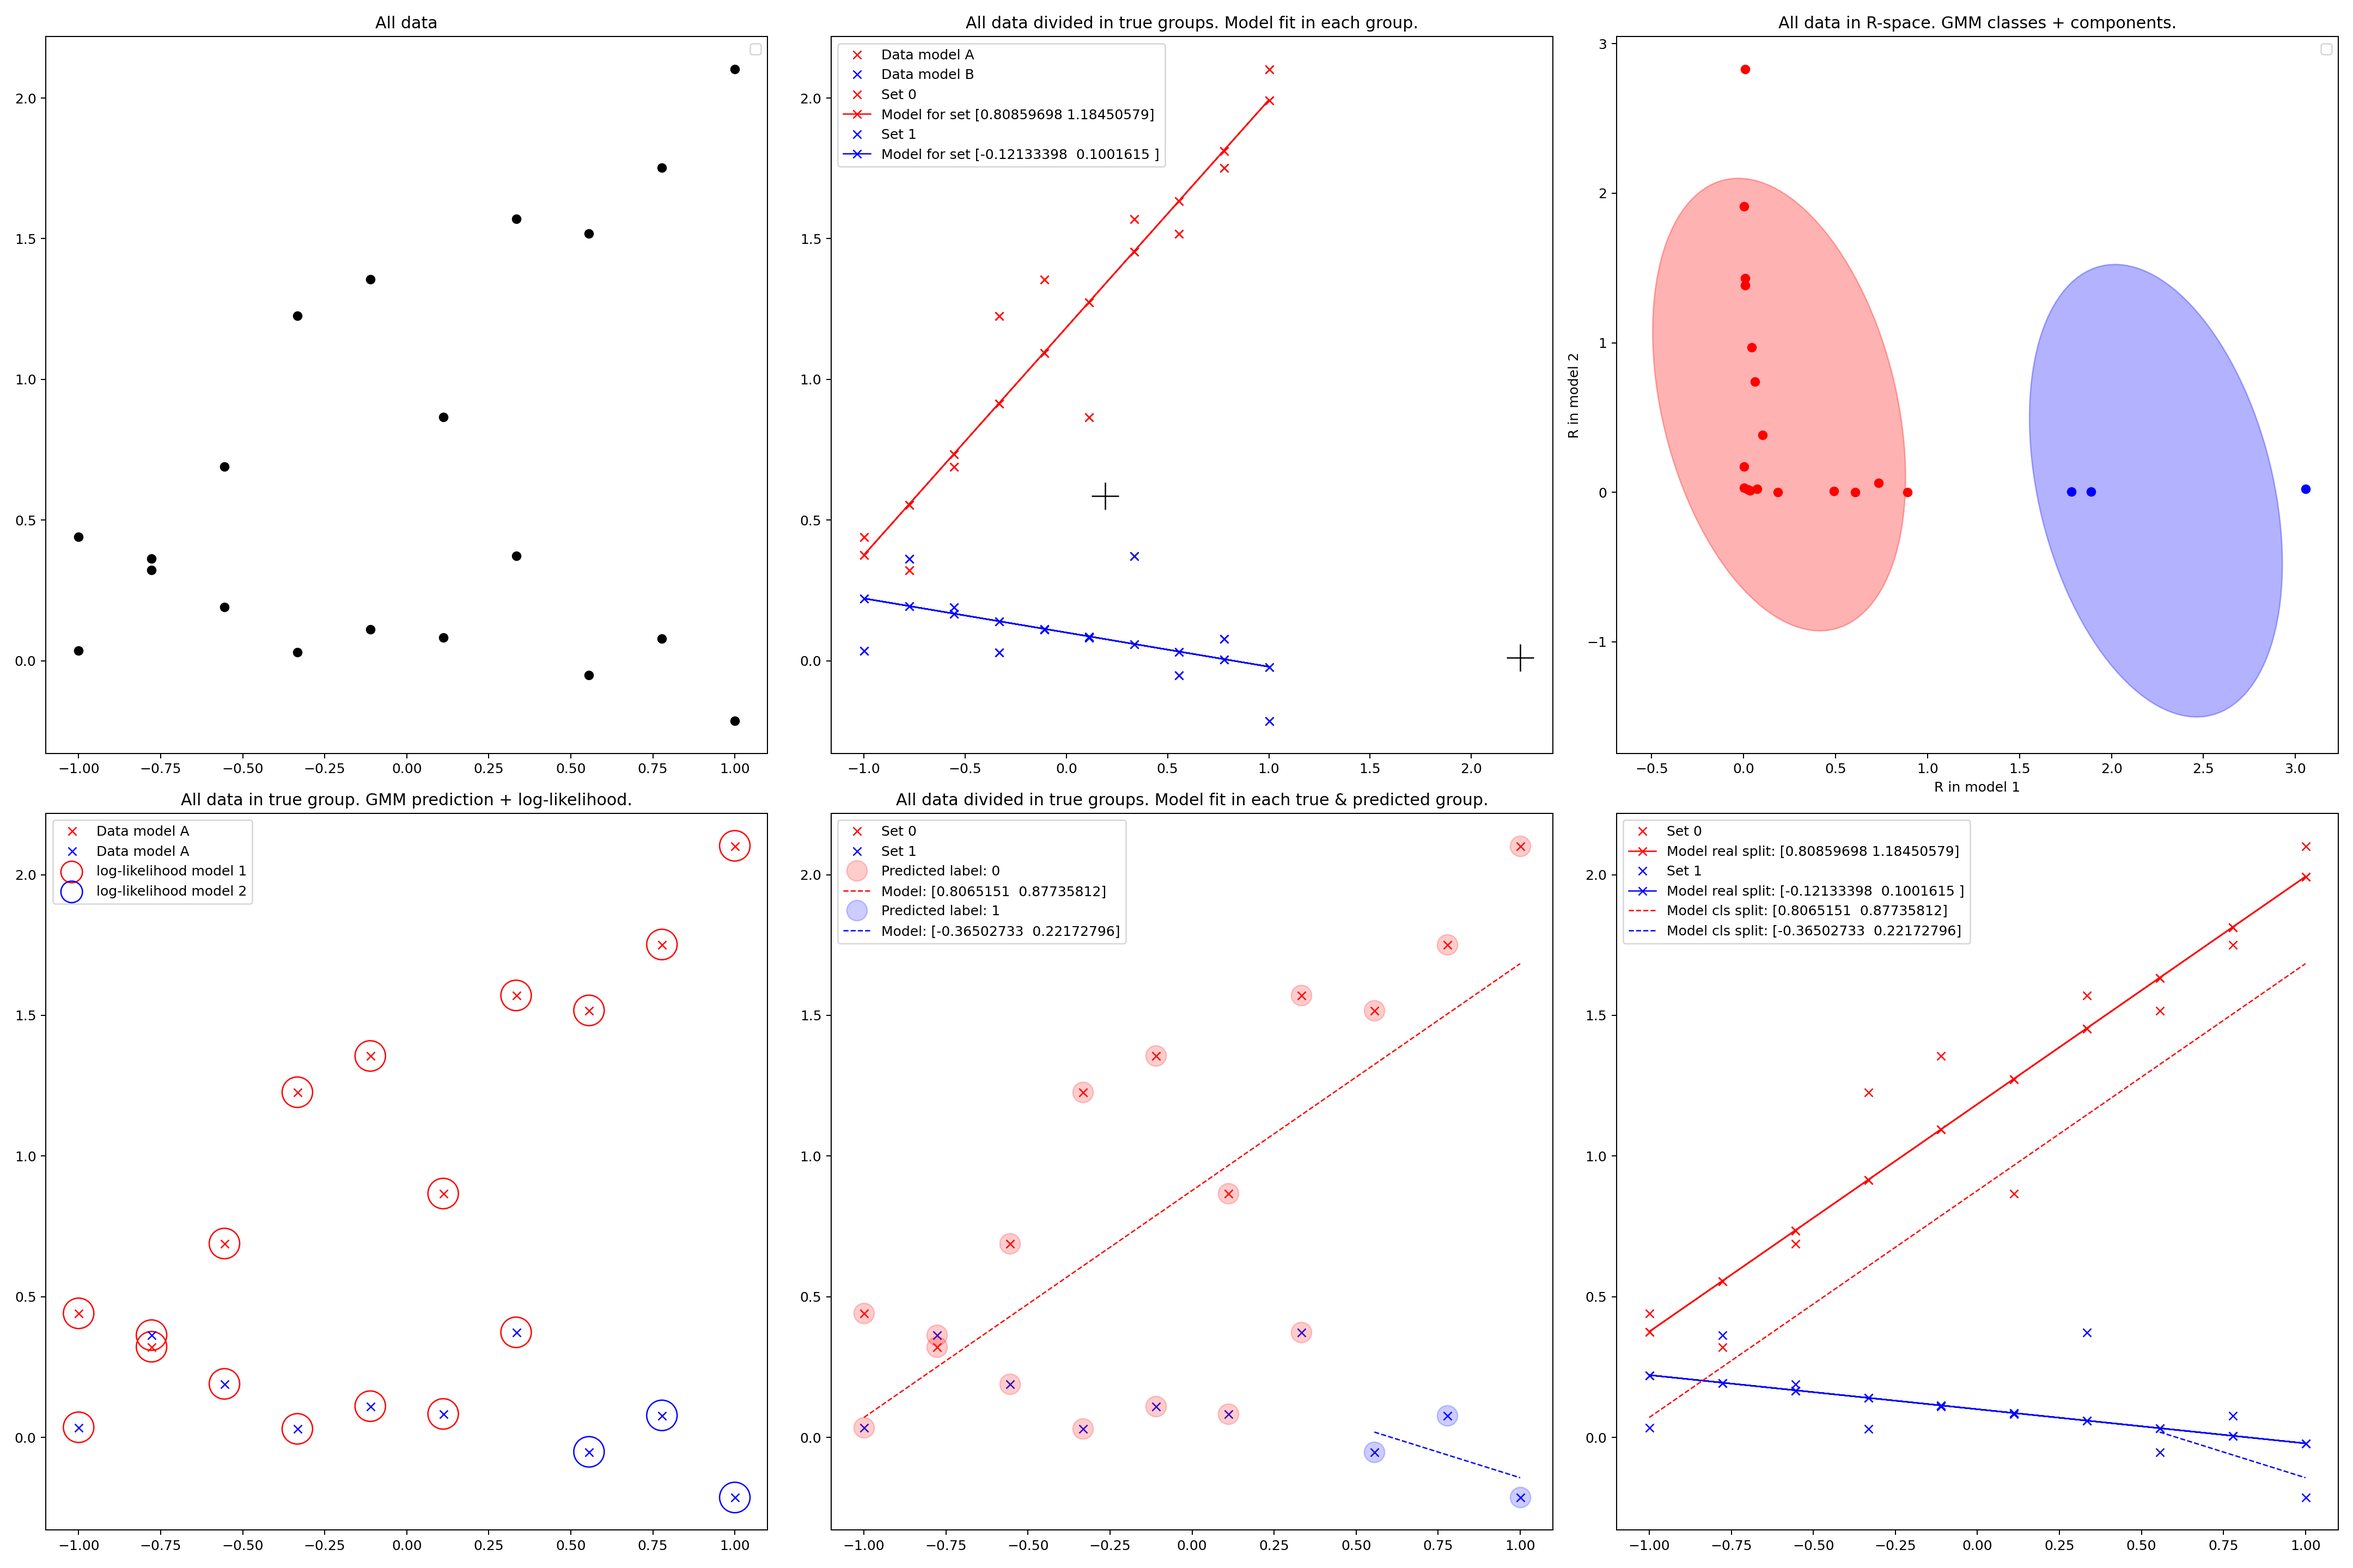
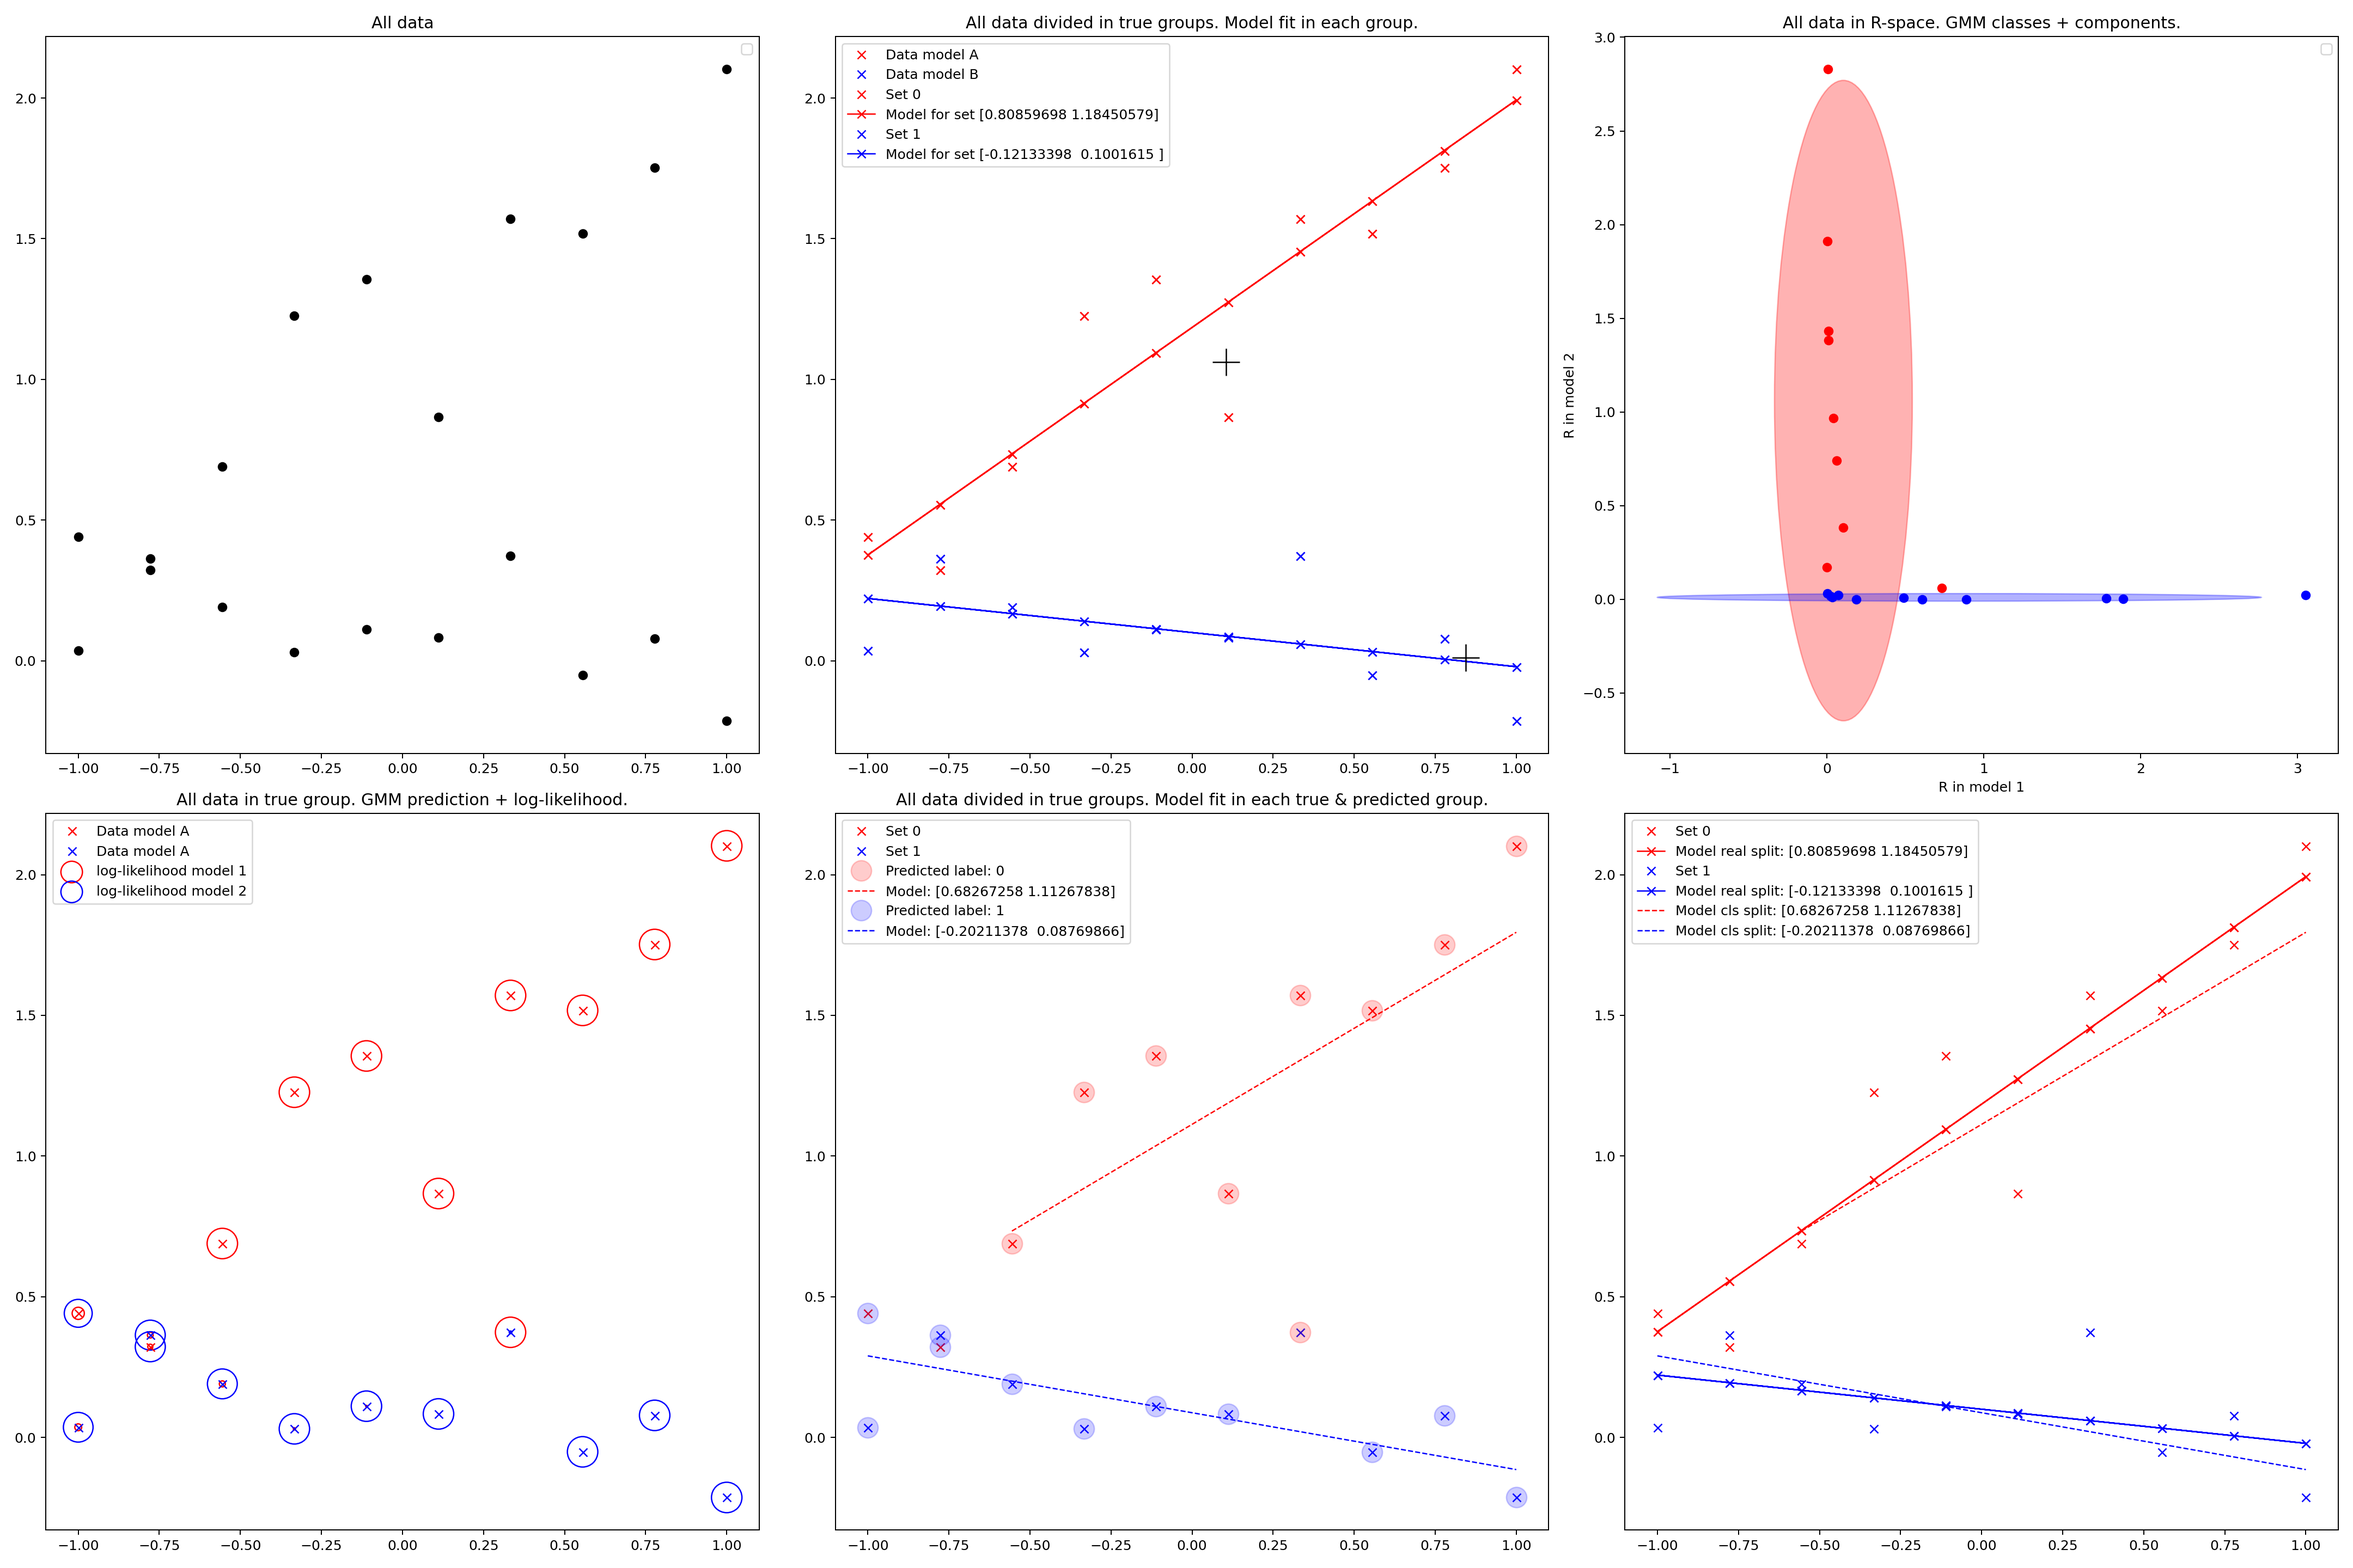
run with diag

diff --git a/run_model_classification.py b/run_model_classification.py
@@ -120,7 +120,7 @@ for iset, (set, color) in enumerate(zip(sets, colors)):
 #  (n_samples, n_features)
 X = np.stack(rs, axis=1)
 print(X.shape)
-covariance_type = "tied"
+covariance_type = "diag"
 gm = GaussianMixture(
     n_components=n_models, random_state=0, covariance_type=covariance_type
 )
